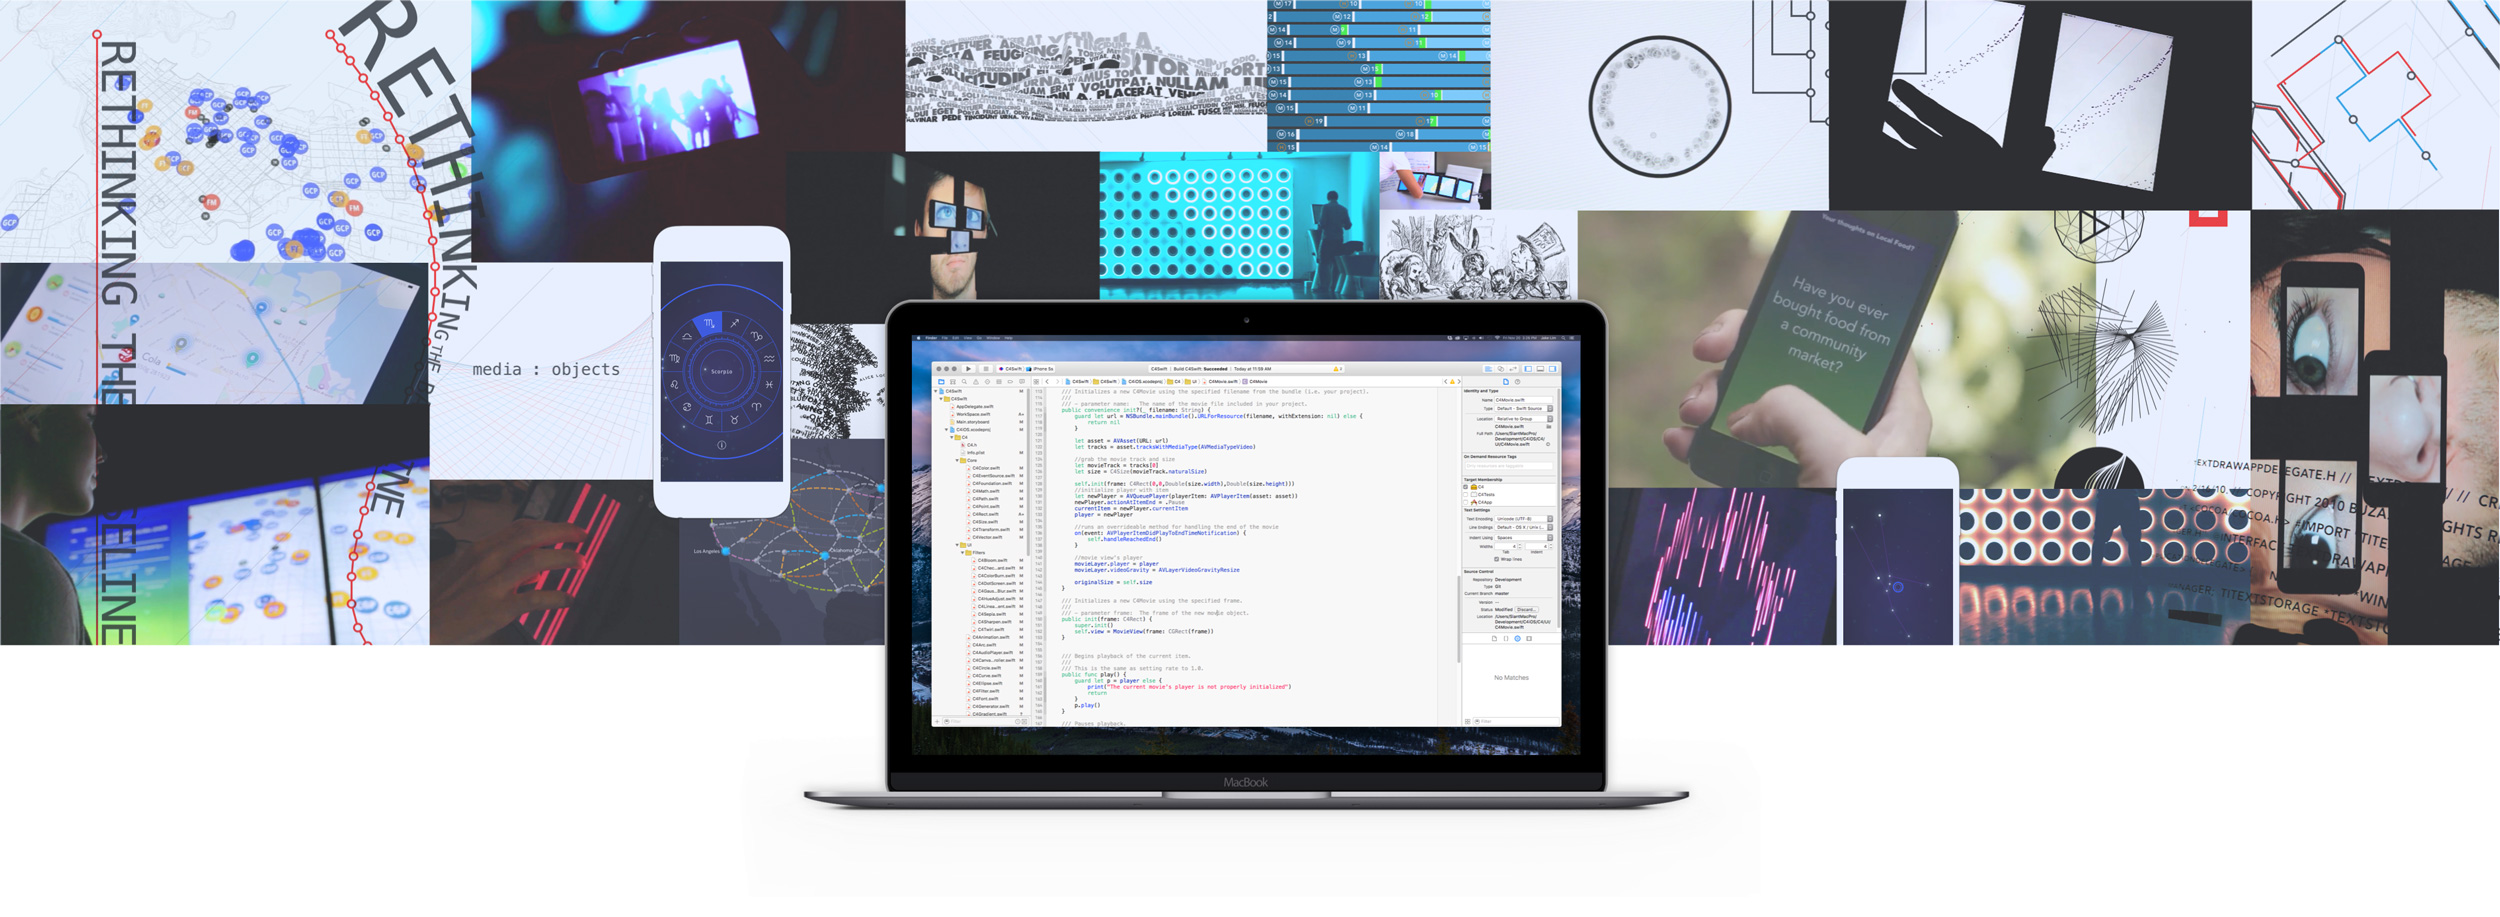
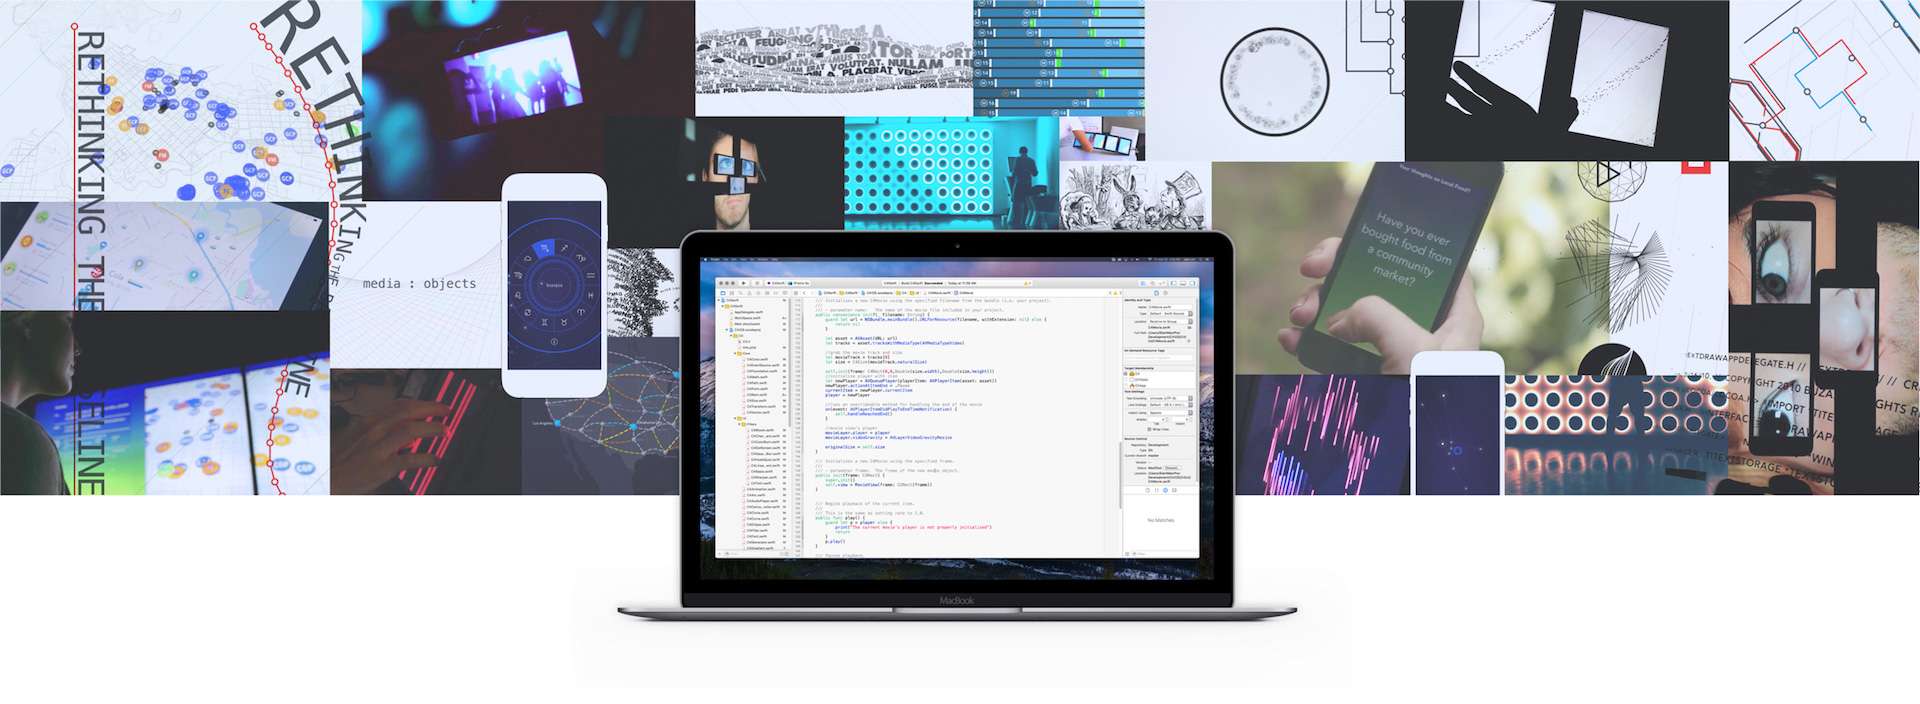
Fixing homepage layout

Changed region(s): [[0.4688, 0.1875, 0.5312, 0.25], [0.6562, 0.6562, 0.6875, 0.6875], [0.3125, 0.375, 0.3438, 0.4062]]

diff --git a/css/style.scss b/css/style.scss
@@ -384,7 +384,7 @@ p a, .container.install li a, small a, .related-example a
 .background
 {
 	width: 100%;
-	height: 775px;		
+	height: 650px;		
 	margin: -90px auto 0;
 	position: relative;
 	overflow: hidden;
@@ -395,8 +395,8 @@ p a, .container.install li a, small a, .related-example a
 
 		.wrapper
 		{
-			width: 5000px;
-			height: 900px;
+			width: 3840px;
+			height: 650px;
 			overflow: hidden;
 			position: absolute;
 		}
@@ -420,7 +420,7 @@ p a, .container.install li a, small a, .related-example a
 			    margin-left: 0px;
 			 }
 			 100% {
-			    margin-left: -2500px;
+			    margin-left: -1920px;
 			 }
 			 
 			}
@@ -430,7 +430,7 @@ p a, .container.install li a, small a, .related-example a
 			   margin-left: 0px;
 			 }
 			 100% {
-			   margin-left: -2500px;
+			   margin-left: -1920px;
 			 }
 			 
 			}
@@ -440,7 +440,7 @@ p a, .container.install li a, small a, .related-example a
 			   margin-left: 0px;
 			 }
 			 100% {
-			   margin-left: -2500px;
+			   margin-left: -1920px;
 			 }
 			 
 			}
@@ -450,7 +450,7 @@ p a, .container.install li a, small a, .related-example a
 			   margin-left: 0px;
 			 }
 			 100% {
-			   margin-left: -2500px;
+			   margin-left: -1920px;
 			 }
 			 
 			}
@@ -460,7 +460,7 @@ p a, .container.install li a, small a, .related-example a
 			   margin-left: 0px;
 			 }
 			 100% {
-			   margin-left: -2500px;
+			   margin-left: -1920px;
 			 }
 			 
 			}
@@ -469,7 +469,7 @@ p a, .container.install li a, small a, .related-example a
 		{
 			position: absolute;
 			z-index: 9999;
-			top: 350px;
+			top: 200px;
     	width: 800px;
 			left: 0;
 			right: 0;
@@ -486,12 +486,12 @@ p a, .container.install li a, small a, .related-example a
 			 .wrapper
 			{	
 				height: 400px;
-				width: 2500px;
+				width: 1920px;
 			}
 
 			.banner img
 			{
-				width: 1250px;
+				width: 960px;
 			}
 
 			.laptop

diff --git a/css/style.css b/css/style.css
@@ -5893,15 +5893,15 @@ p a, .container.install li a, small a, .related-example a {
 
 .background {
   width: 100%;
-  height: 775px;
+  height: 650px;
   margin: -90px auto 0;
   position: relative;
   overflow: hidden; }
   .background #scroll-grid {
     width: 100%; }
     .background #scroll-grid .wrapper {
-      width: 5000px;
-      height: 900px;
+      width: 3840px;
+      height: 650px;
       overflow: hidden;
       position: absolute; }
     .background #scroll-grid .banner img {
@@ -5916,31 +5916,31 @@ p a, .container.install li a, small a, .related-example a {
   0% {
     margin-left: 0px; }
   100% {
-    margin-left: -2500px; } }
+    margin-left: -1920px; } }
 @-moz-keyframes bannermove {
   0% {
     margin-left: 0px; }
   100% {
-    margin-left: -2500px; } }
+    margin-left: -1920px; } }
 @-webkit-keyframes "bannermove" {
   0% {
     margin-left: 0px; }
   100% {
-    margin-left: -2500px; } }
+    margin-left: -1920px; } }
 @-ms-keyframes "bannermove" {
   0% {
     margin-left: 0px; }
   100% {
-    margin-left: -2500px; } }
+    margin-left: -1920px; } }
 @-o-keyframes "bannermove" {
   0% {
     margin-left: 0px; }
   100% {
-    margin-left: -2500px; } }
+    margin-left: -1920px; } }
     .background #scroll-grid .laptop {
       position: absolute;
       z-index: 9999;
-      top: 350px;
+      top: 200px;
       width: 800px;
       left: 0;
       right: 0;
@@ -5950,9 +5950,9 @@ p a, .container.install li a, small a, .related-example a {
       height: 400px; }
       .background #scroll-grid .wrapper {
         height: 400px;
-        width: 2500px; }
+        width: 1920px; }
       .background #scroll-grid .banner img {
-        width: 1250px; }
+        width: 960px; }
       .background #scroll-grid .laptop {
         width: 300px;
         top: 200px; } }

diff --git a/index.html b/index.html
@@ -273,7 +273,6 @@ func viewDidLoad() {
 </div>
 
 </div>
-  <script src="js/jquery.transit.min.js"></script>
 
   {% include footer.html %}
   
